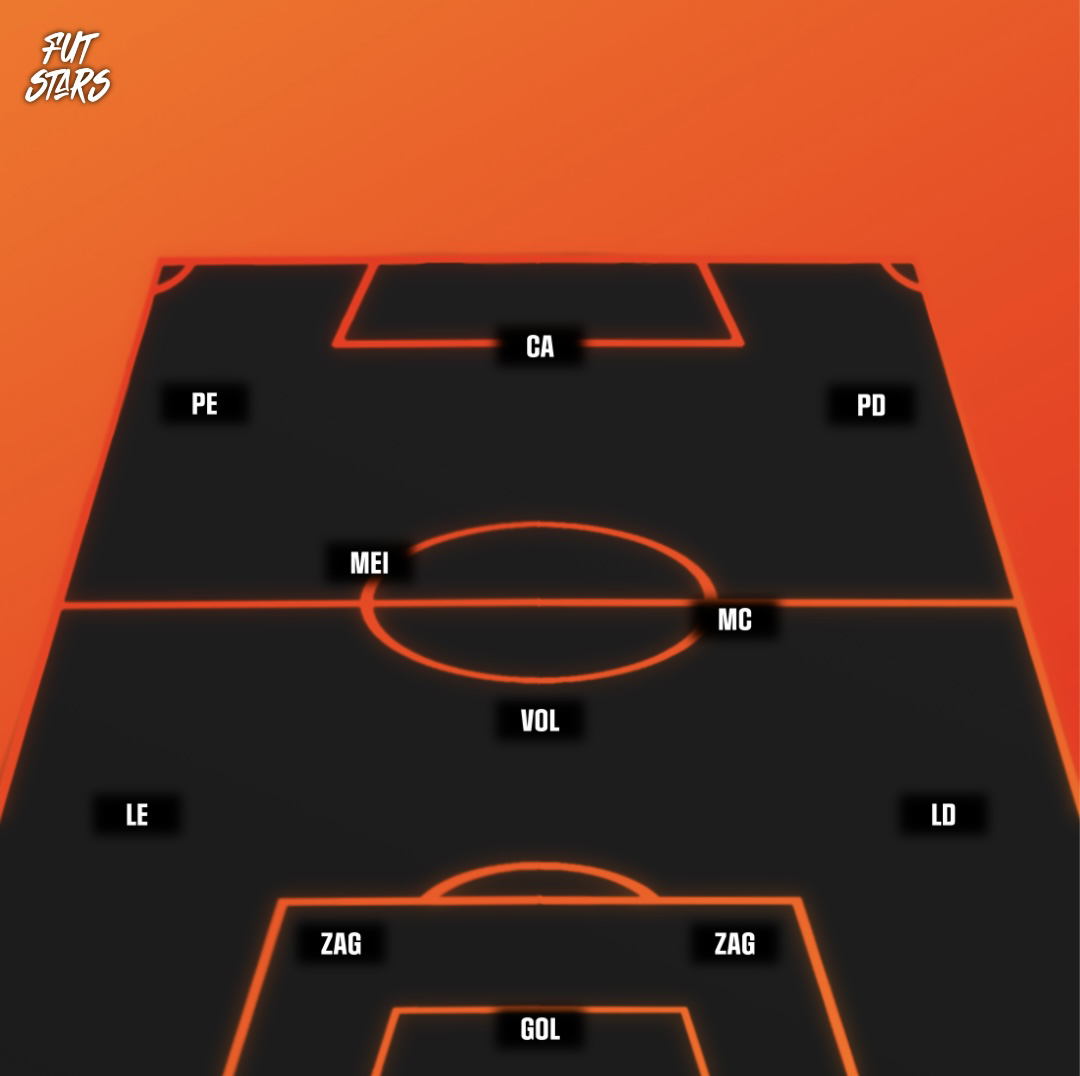
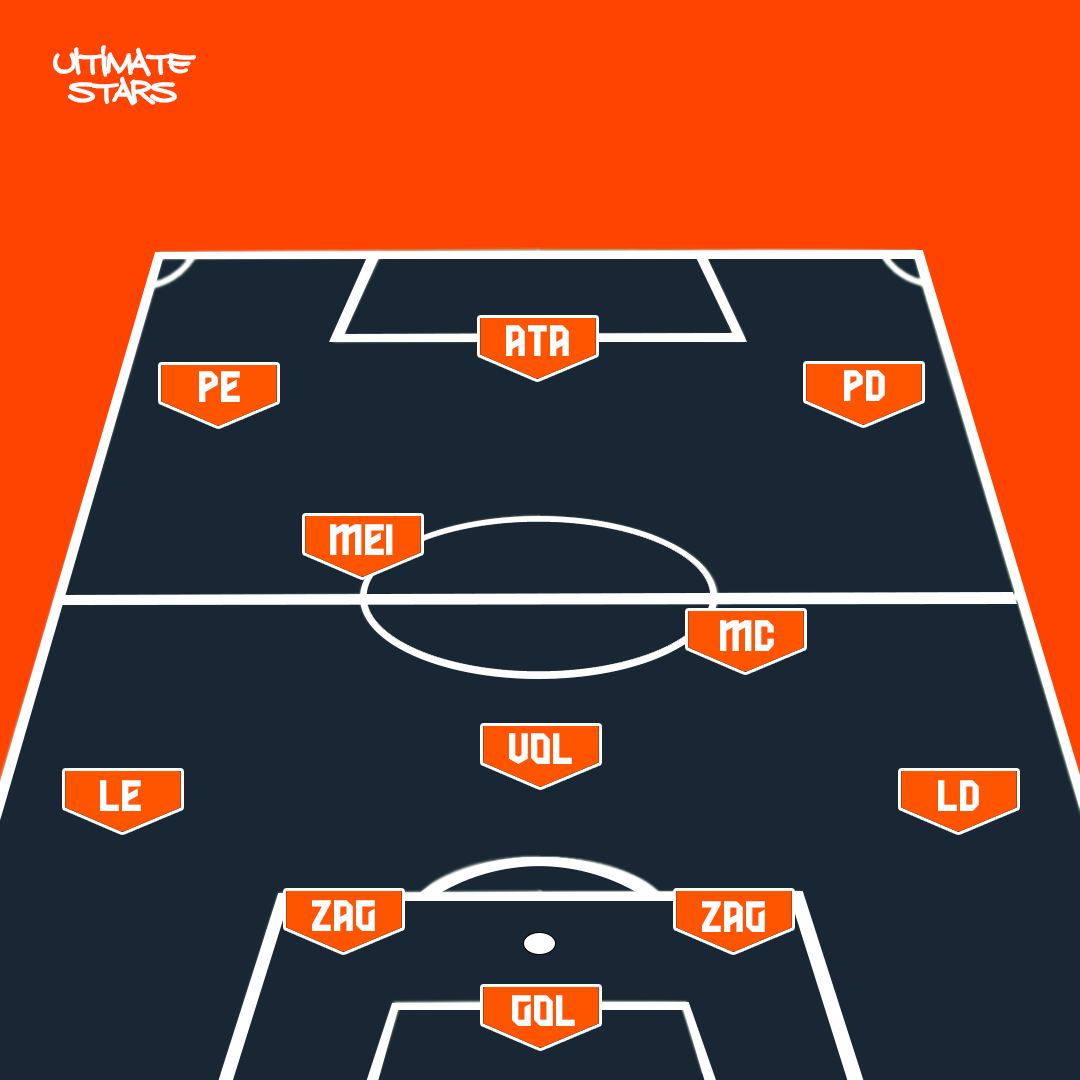
a

diff --git a/api/generate.js b/api/generate.js
@@ -11,7 +11,7 @@ const playersFolder = path.join(__dirname, '..', 'players');
 //formações
 const formations = {
   '4-3-3': {
-    fieldImage: '433teste.png',
+    fieldImage: '433.png',
     positions: [
       { top: 806, left: 434 }, { top: 715, left: 237 }, { top: 715, left: 627 },
       { left: 200, top: 720 }, { top: 586, left: 836 }, { top: 493, left: 435 },
